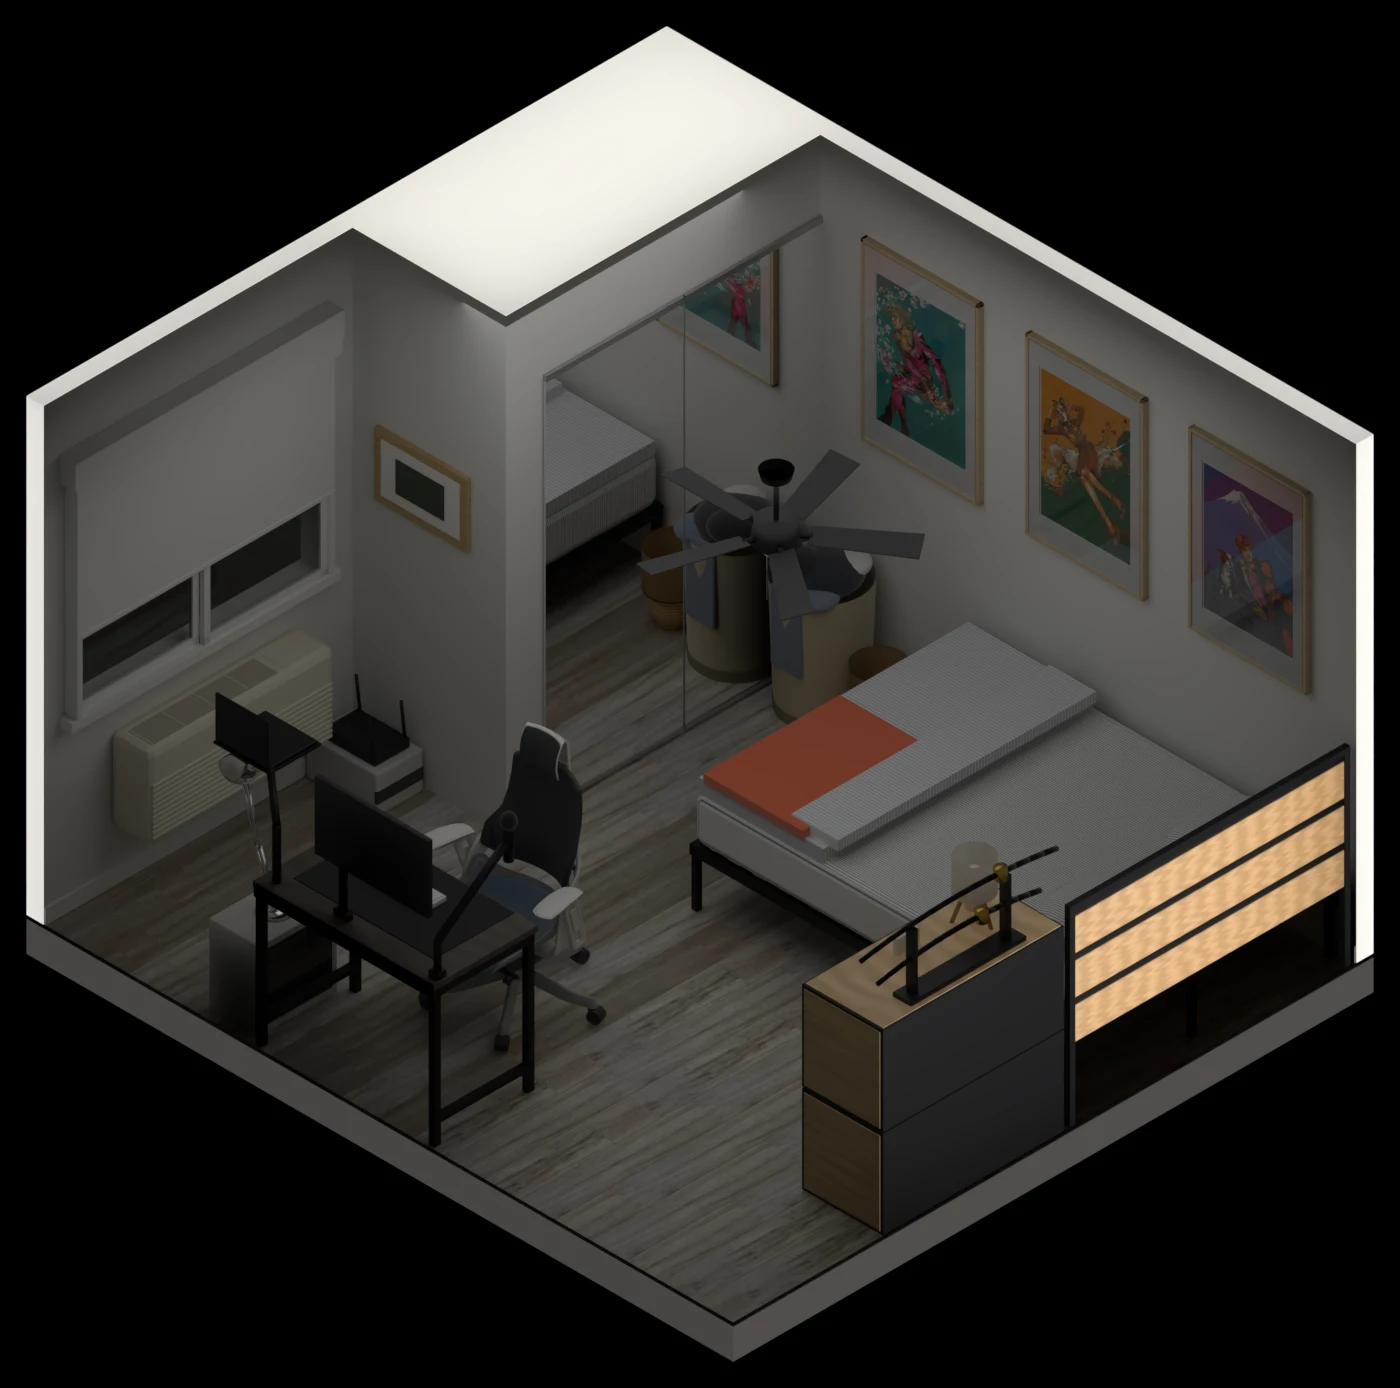
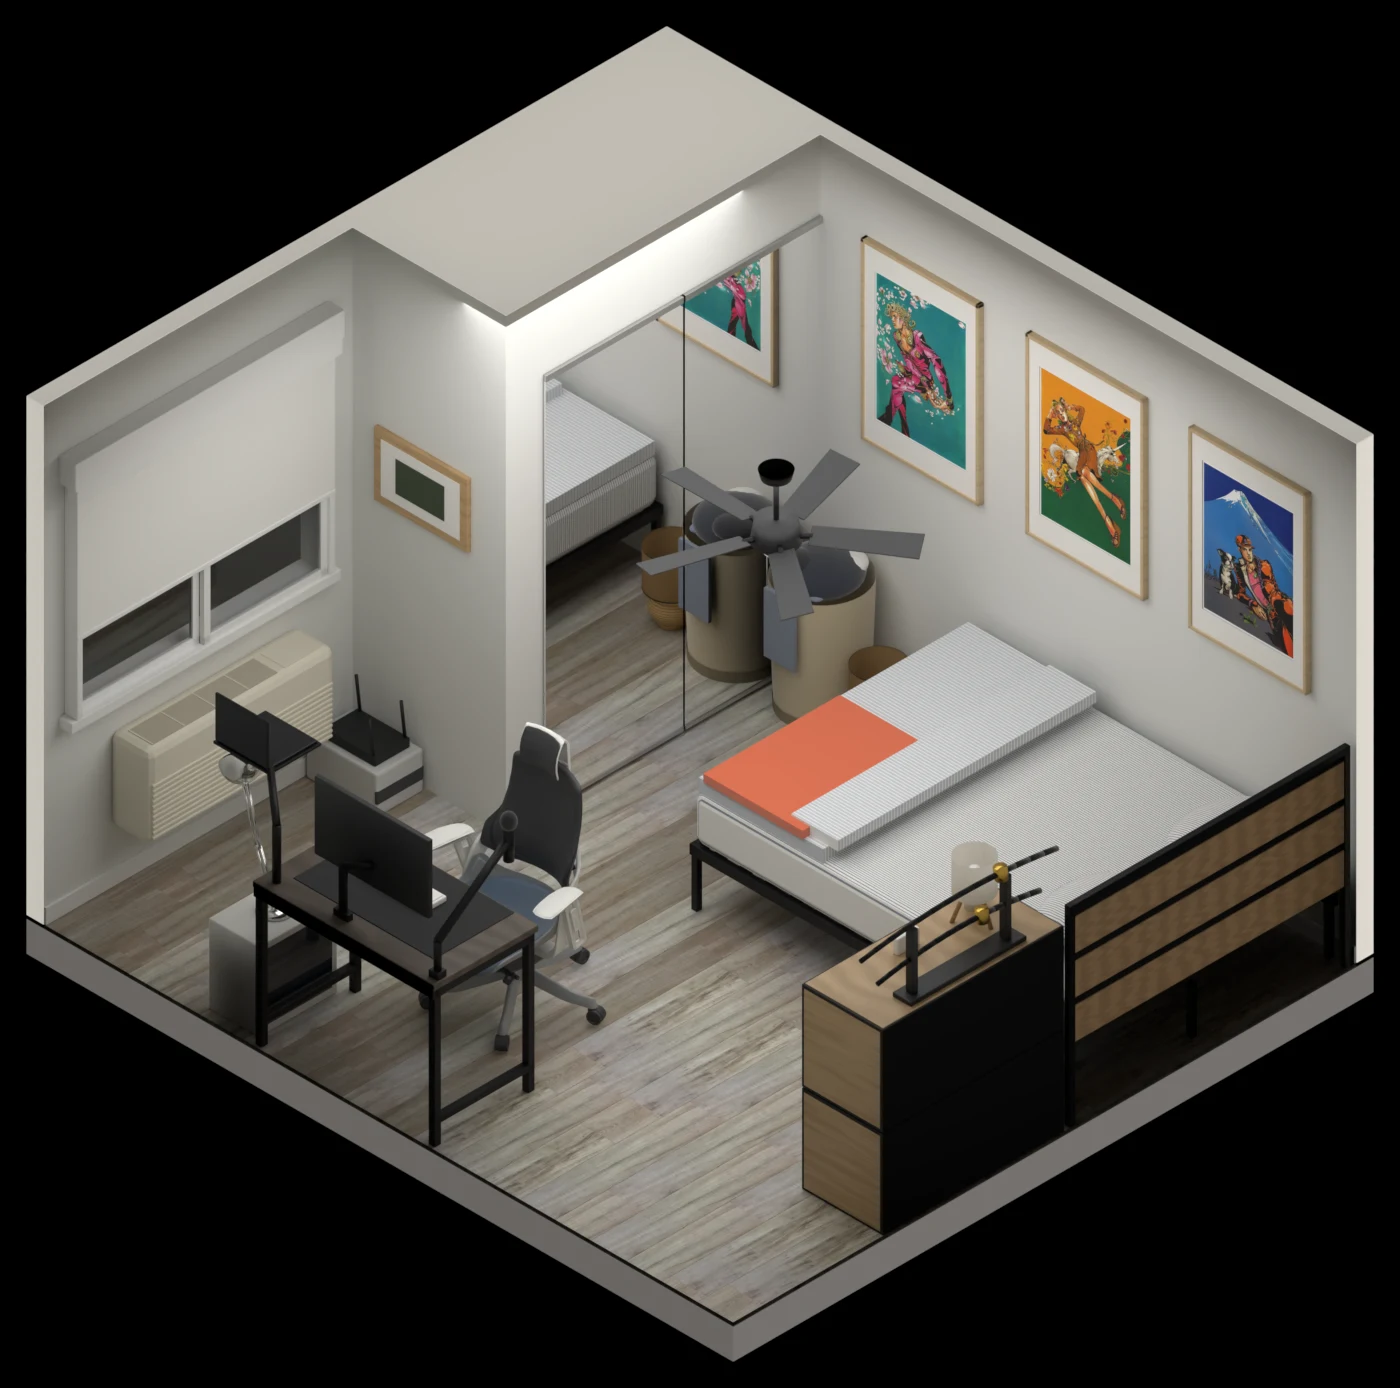
Room render: closet capped with ceiling, matte posters, hamper fix, no black wall patches

diff --git a/_room/render/build_scene.py b/_room/render/build_scene.py
@@ -186,7 +186,7 @@ HERE = os.path.dirname(os.path.abspath(__file__))
 M["floor_photo"], _ft = image_material("floor_photo", os.path.join(HERE, "tex", "floor_planks.jpg"), 0.4)
 _ft.extension = "REPEAT"
 for _n in ("jotaro", "jolyne", "giorno"):
-    M["poster_" + _n], _ = image_material("poster_" + _n, os.path.join(HERE, "tex", f"poster_{_n}.jpg"), 0.35)
+    M["poster_" + _n], _ = image_material("poster_" + _n, os.path.join(HERE, "tex", f"poster_{_n}.jpg"), 0.85)
 # RÖDALM birch effect: pale, fine-grained foil
 M["birch"] = wood("birch", "#dcc6a0", "#c9ae86", 14.0, 0.45)
 
@@ -306,7 +306,41 @@ box(0, NX, 0, WY0, D, D + T, M["wall"], "wall_win_low", bevel=0)
 box(0, NX, WY1, H, D, D + T, M["wall"], "wall_win_high", bevel=0)
 box(0, WX0, WY0, WY1, D, D + T, M["wall"], "wall_win_l", bevel=0)
 box(WX1, NX, WY0, WY1, D, D + T, M["wall"], "wall_win_r", bevel=0)
-box(NX, W + T, 0, H, DM, D + T, M["wall"], "closet_block", bevel=0)
+# The closet behind the mirror doors, open at the top like the rest of the cut-away: walls, a rod, hanging clothes, boxes.
+CF = DM + 0.05                                           # inside face of the door wall
+box(NX, NX + T, 0, H, DM, D + T, M["wall"], "closet_wall_l", bevel=0)
+box(W, W + T, 0, H, DM, D + T, M["wall"], "closet_wall_r", bevel=0)
+box(NX, W + T, 0, H, D, D + T, M["wall"], "closet_wall_back", bevel=0)
+box(NX + T, 1.85, 0, H, DM, CF, M["wall"], "closet_front", bevel=0)
+box(1.85, W, 2.03, H, DM, CF, M["wall"], "closet_header", bevel=0)
+box(NX + T, W, -0.02, 0, CF, D, M["floor"], "closet_floor", bevel=0)
+# covered by its ceiling (Piotr), so the closet is filled in solid: no gaps to look into
+box(NX + T, W, 0, H - 0.001, CF, D, M["wall"], "closet_solid", bevel=0)
+cylinder((NX + T, 1.66, D - 0.36), (W, 1.66, D - 0.36), 0.012, mat=M["nickel"], name="closet_rod", verts=12)
+# shelf above the rod: from this angle it's all you can see of the closet, so it carries bins and folded clothes
+box(NX + T, W, 1.86, 1.88, D - 0.40, D, M["trim"], "closet_shelf", bevel=0.003)
+_sx = NX + T + 0.04
+for kind, w_, h_, col in (("bin", 0.36, 0.24, "#c9b28a"), ("fold", 0.30, 0.16, "#2b2f3a"), ("fold", 0.30, 0.20, "#7b8496"), ("bin", 0.34, 0.22, "#e8e6e1"),
+                          ("fold", 0.28, 0.12, "#e2602a"), ("bin", 0.30, 0.26, "#3d5a80")):
+    if _sx + w_ > W - 0.03:
+        break
+    if kind == "bin":
+        box(_sx, _sx + w_, 1.88, 1.88 + h_, D - 0.36, D - 0.04, material("shelf_bin", col, 0.75), "shelf_box", bevel=0.01)
+    else:
+        for k in range(int(h_ / 0.04)):
+            box(_sx + 0.01 * (k % 2), _sx + w_ - 0.01 * ((k + 1) % 2), 1.88 + k * 0.04, 1.88 + (k + 1) * 0.04 - 0.004, D - 0.34, D - 0.06,
+                material("folded", col, 0.95, **{"Sheen Weight": 0.6}), "shelf_box", bevel=0.012)
+    _sx += w_ + 0.05
+random.seed(11)
+_cols = ["#2b2f3a", "#1d1f26", "#e8e6e1", "#7b8496", "#3d5a80", "#e2602a", "#556b2f", "#c9c4bb", "#202024", "#8a2b2b"]
+x = NX + T + 0.07
+while x < W - 0.05:
+    hgt = random.uniform(0.62, 1.0)
+    box(x, x + 0.035, 1.64 - hgt, 1.64, D - 0.58, D - 0.14, material("garment", random.choice(_cols), 0.95, **{"Sheen Weight": 0.6}), "garment", bevel=0.012)
+    x += random.uniform(0.045, 0.085)
+for bx0, bw, bh, col in ((NX + 0.15, 0.4, 0.3, "#c9b28a"), (NX + 0.62, 0.35, 0.22, "#2b2f3a"), (W - 0.5, 0.42, 0.34, "#c9b28a")):
+    box(bx0, bx0 + bw, 0, bh, D - 0.45, D - 0.08, material("closet_box", col, 0.8), "closet_box", bevel=0.005)
+
 box(W, W + T, 0, H, 0, DM, M["wall"], "wall_posters", bevel=0)
 # Walls the camera looks through (the app's cutaway) still bounce light and keep daylight out, as in the real room.
 for o in (box(-T, 0, 0, H, -T, D + T, M["wall"], "wall_desk_near", bevel=0), box(-T, W + T, 0, H, -T, 0, M["wall"], "wall_door_near", bevel=0),
@@ -511,13 +545,14 @@ cylinder((HX, 0.0, HZ), (HX, 0.01, HZ), 0.185, mat=M["hamper"], name="hamper_flo
 cylinder((HX, 0.0, HZ), (HX, 0.05, HZ), 0.188, 0.19, mat=material("hamper_band", "#8e8268", 0.8), name="hamper_band", verts=48, cap=False)
 for i, (dx, dz, dy, r, col) in enumerate(((0.0, 0.0, 0.62, 0.17, "#2b2f3a"), (-0.07, 0.06, 0.66, 0.11, "#1d1f26"), (0.08, -0.05, 0.64, 0.10, "#e8e6e1"),
                                          (-0.12, -0.09, 0.6, 0.09, "#7b8496"), (0.1, 0.09, 0.61, 0.08, "#f2f1ee"))):
+    r = min(r, 0.18 - math.hypot(dx, dz))              # keep every heap inside the rim
     bpy.ops.mesh.primitive_uv_sphere_add(radius=r, location=B(HX + dx, dy, HZ + dz), segments=24, ring_count=12)
     lump = link(bpy.context.active_object); lump.name = "laundry"; lump.scale.z = 0.45
     lump.data.materials.append(material("laundry", col, 0.95, **{"Sheen Weight": 0.6}))
     for poly in lump.data.polygons:
         poly.use_smooth = True
 # a towel hanging over the side toward the bed
-box(HX - 0.2, HX - 0.17, 0.25, 0.62, HZ - 0.08, HZ + 0.08, material("towel", "#7b8496", 0.95, **{"Sheen Weight": 0.6}), "towel", bevel=0.01)
+box(HX - 0.232, HX - 0.215, 0.3, 0.615, HZ - 0.08, HZ + 0.08, material("towel", "#7b8496", 0.95, **{"Sheen Weight": 0.6}), "towel", bevel=0.01)
 
 # ---- posters on the bed wall: the three 20 x 28 in prints in IKEA RÖDALM 61 x 91 cm frames ----
 # Frame 63 x 93 cm outside, 3 cm deep, birch effect, about 1.6 cm of face; white mat with a 49 x 69 cm window.
@@ -542,7 +577,7 @@ def picture(u, v, pz, yc, tex_mat, xw=W, out_w=0.63, out_h=0.93, mat_w=0.49, mat
         uvl.data[li].uv = uvv
     o = bpy.data.objects.new("print", mesh); C_ROOM.objects.link(o); o.data.materials.append(tex_mat)
     # glass in front, so the prints catch soft reflections like the real frames
-    box(xf - 0.001, xf + 0.001, yc - hh + face, yc + hh - face, pz - hw + face, pz + hw - face, M["glass"], "rodalm_glass", bevel=0)
+    # (no glass: its reflections made the prints look dark and shiny in the render)
 
 for pz, name in ((0.555, "jotaro"), (1.425, "jolyne"), (2.305, "giorno")):
     picture(None, None, pz, 1.595, M["poster_" + name])
@@ -640,7 +675,7 @@ recv = bpy.data.collections.new("cutaway_receivers")
 for o in C_ROOM.objects:
     if o.name.split(".")[0] in ("hb_post", "hb_top", "hb_plank", "hb_bar", "dresser_carcass", "dresser_side", "dresser_top"):
         recv.objects.link(o)
-cut = light("AREA", "cutaway_fill", B(2.0, 1.1, -0.9), 30, C_FILL, direction=Vector((-0.2, 1, 0.15)))
+cut = light("AREA", "cutaway_fill", B(2.0, 1.1, -0.9), 1, C_FILL, direction=Vector((-0.2, 1, 0.15)))
 cut.data.size = 2.5
 cut.light_linking.receiver_collection = recv
 # An empty blocker collection counts as "everything blocks", so it holds one tiny cube far away: nothing in the room blocks.
@@ -652,16 +687,26 @@ cut.light_linking.blocker_collection = _nb
 # Caps: the tops of the walls and the cut ends where the camera slices through the room. In the real room they touch the
 # ceiling and the hidden walls, so they would render black; like the app's drawing, they get an even light of their own.
 caps = bpy.data.collections.new("caps"); scene.collection.children.link(caps)
-M["cap"] = material("cap", "#dcdad6", 0.9)
+# Same tone as the walls themselves render (Piotr: not white). The closet is drawn like a cut section: its walls are rims of
+# that tone around a dark charcoal fill, so its top reads as "solid, sliced through" rather than a bright slab.
+M["cap"] = material("cap", "#8d8a84", 0.9)
 M["cap_slab"] = material("cap_slab", "#45423f", 0.95)
-for args in ((0, NX, H, H + 0.002, D, D + T), (NX, W + T, H, H + 0.002, DM, D + T), (W, W + T, H, H + 0.002, 0, DM),      # wall tops
+M["poche"] = material("poche", "#2c2a28", 0.95)
+for args in ((0, NX, H, H + 0.002, D, D + T), (W, W + T, H, H + 0.002, 0, DM),                                            # wall tops
+             (NX, W + T, H, H + 0.002, DM, D + T),                                                                        # closet: its ceiling, one surface with the wall tops (Piotr)
              (-0.002, 0, 0, H, D, D + T),                                                                              # window wall, cut end
              (W, W + T, 0, H, -0.002, 0)):                                                                             # poster wall, cut end
     o = box(*args, M["cap"], "cap", bevel=0, coll=caps)
+# The closet is open at the top, but the (hidden) ceiling keeps it dark; a linked light from above shows what's inside.
+_closet = bpy.data.collections.new("closet_receivers")
+for o in C_ROOM.objects:
+    if o.name.split(".")[0] in ("closet_floor", "closet_shelf", "closet_rod", "garment", "closet_box", "shelf_box", "closet_wall_l", "closet_wall_r", "closet_wall_back", "closet_front", "closet_header"):
+        _closet.objects.link(o)
+# (the closet is covered by its ceiling now, so no light inside)
 for args in ((-0.002, 0, -0.18, -0.02, 0, D + T), (0, W + T, -0.18, -0.02, -0.002, 0)):                                # floor slab edges
     box(*args, M["cap_slab"], "cap_slab", bevel=0, coll=caps)
 nothing = bpy.data.collections.new("no_blockers")
-caplight = light("SUN", "cap_light", (0, 0, 10), 3.0, C_FILL, direction=Vector((0.55, 0.7, -0.45)))
+caplight = light("SUN", "cap_light", (0, 0, 10), 1.6, C_FILL, direction=Vector((0.55, 0.7, -0.45)))
 caplight.light_linking.receiver_collection = caps
 caplight.light_linking.blocker_collection = _nb
 caplight.data.angle = math.radians(30)
@@ -769,5 +814,5 @@ else:
 scene.render.filepath = os.path.join(here, OUT)
 if BLEND:
     bpy.ops.wm.save_as_mainfile(filepath=os.path.join(here, BLEND))
-bpy.ops.render.render(write_still=True)
+if not arg("probe", flag=True): bpy.ops.render.render(write_still=True)
 print("RENDERED", scene.render.filepath, scene.render.resolution_x, scene.render.resolution_y, "layer", LAYER)
